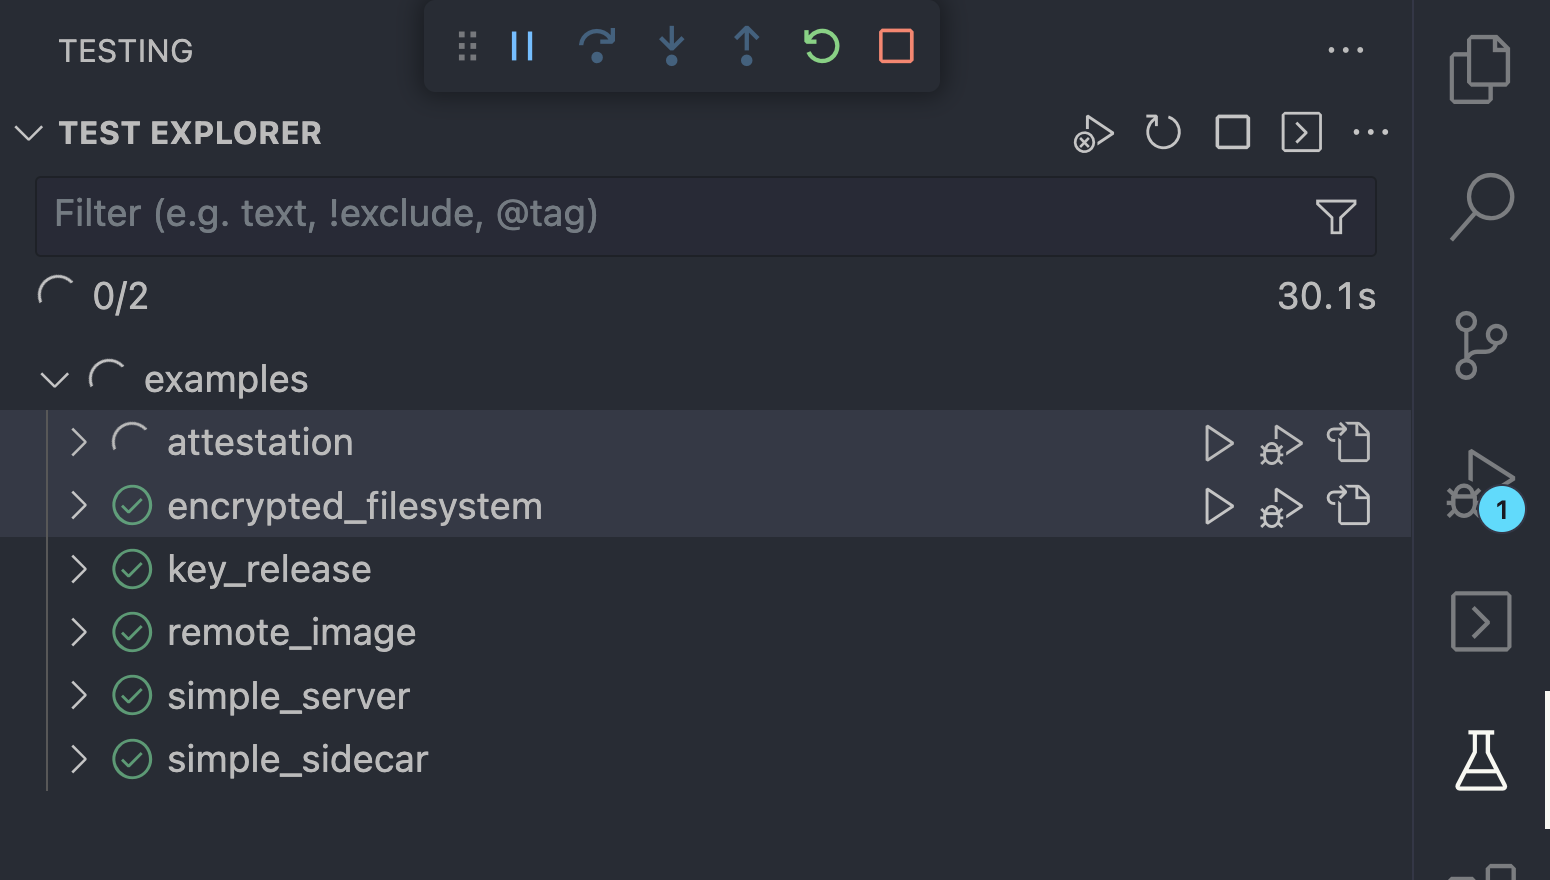
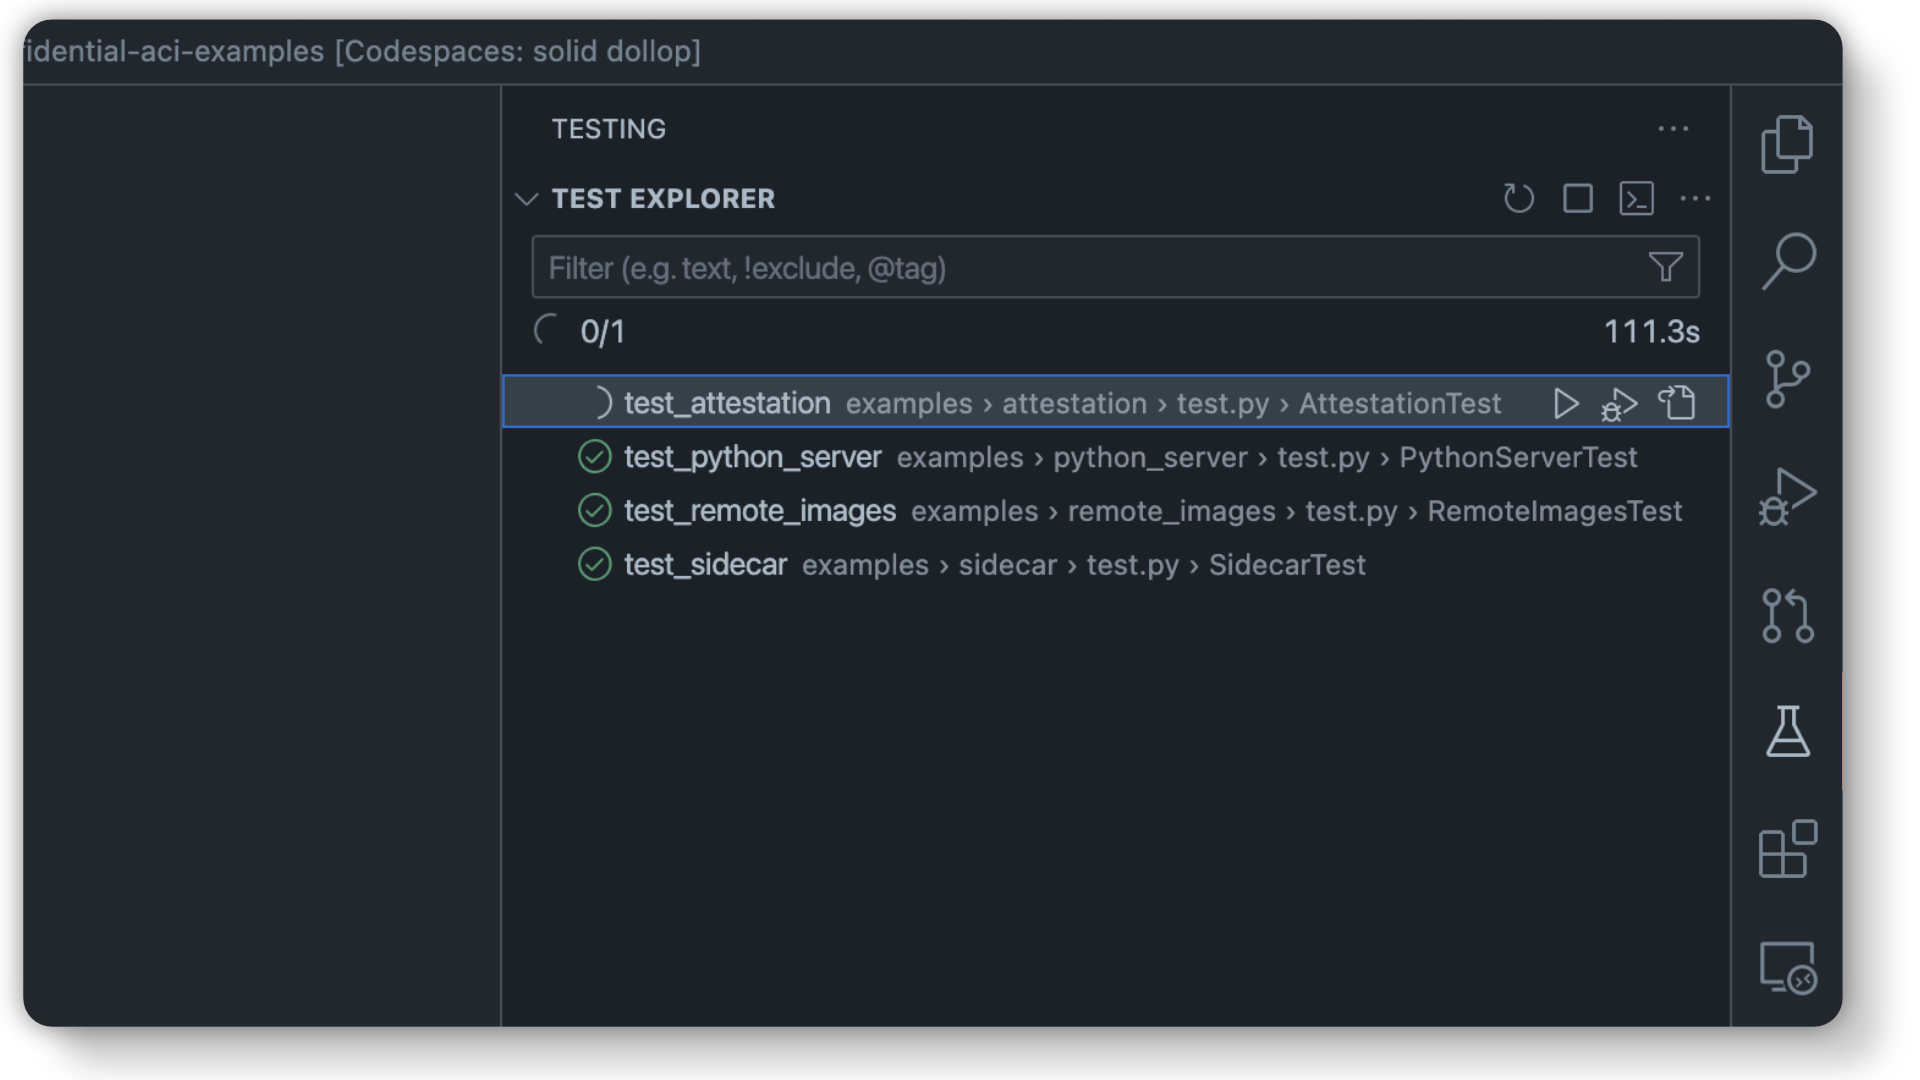
Update README

diff --git a/README.md b/README.md
@@ -1,30 +1,24 @@
 # Confidential ACI Examples
 
-Example code and end to end test cases for confidential ACI. Contains infrastructure for deploying Confidential Azure Container Instances based on AMD SEV-SNP.
+Example code and end to end test cases for confidential ACI.
 
-### [Simple Server](examples/simple_server/README.md)
+### [Python Server](examples/python_server/README.md)
 
-Hello world server running in a confidential container.
+Basic flask based server running in a confidential container.
 
-### [Simple Sidecar](examples/simple_sidecar/README.md)
+### [Sidecar](examples/sidecar/README.md)
 
 Deploys two containers in the same container group and demostrates communication between the two.
 
 ### [Remote Image](examples/remote_image/README.md)
 
-Simplest possible example to demonstrate how resources are managed by this repo.
+Deploys several container groups using popular docker images
 
 ### [Attestation](examples/attestation/README.md)
 
-Fetches and validates an SNP Attestation report, locally as well as using the [Attestation sidecar](https://github.com/microsoft/confidential-sidecar-containers).
+Fetches and validates an SNP Attestation report.
 
-### [Key Release](examples/key_release/README.md)
-
-Uses attestation to perform a secure key release from an Azure HSM.
-
-### [Encrypted Filesystem](examples/encrypted_filesystem/README.md)
-
-Uses the [Encrypted Filesystem sidecar](https://github.com/microsoft/confidential-sidecar-containers) to demonstrate using attestation to perform a secure key release from an Azure HSM which is then used to decrypt a simple filesystem.
+> Note: If you're looking for examples of how to use confidential sidecar container images, please look [here](https://github.com/microsoft/confidential-sidecar-containers) under the `tests/` directory
 
 ## How to Run Examples
 
@@ -32,18 +26,9 @@ There are three main ways to run examples:
 
 ### 1. Github Actions
 
-Every example has a corresponding github action which runs against all security policies in the examples manifest as well as one generated by the ACI Policy Generation tool.
+Every example has a corresponding github action.
 
 See all workflows [here](https://github.com/microsoft/confidential-aci-examples/actions).
-
-Certain workflows are run regularly as an indicator for the health of confidential ACI. You can find them [here](.github/workflows/README.md).
-
-It is also possible to manually run steps in the example testing process with the following workflows:
-
-- [Push Example Images](https://github.com/microsoft/confidential-aci-examples/actions/workflows/push_all_example_images.yml)
-- [Deploy ACI](https://github.com/microsoft/confidential-aci-examples/actions/workflows/manual_aci_deploy.yml)
-- [Test Example](https://github.com/microsoft/confidential-aci-examples/actions/workflows/manual_test_deployment.yml)
-- [Remove ACI](https://github.com/microsoft/confidential-aci-examples/actions/workflows/manual_aci_remove.yml)
 
 ### 2. Whole Tests Locally
 
@@ -53,7 +38,7 @@ The simplest way to run the tests locally is to use Github Codespaces.
 
 This will set up a full development environment with everything needed to run examples.
 
-> **CREDENTIALS:** If you do not have write permissions on this project or you checkout manually i.e. without using Codespaces, you will need to provide your own credentials by modifying the [Environment file](env) and re-running [setup.sh](setup.sh)
+> **CREDENTIALS:** In order to deploy Azure resources, you will need to run `az login` with an account with Contributor permissions on the resource group specified in `cacitesting.env`
 
 > **MANUAL SETUP:** To checkout and setup manually, please refer to the [Dev Container](.devcontainer/devcontainer.json) to follow the setup process.
 
@@ -65,17 +50,21 @@ Then you can open VS Code's testing view, where examples can be run with or with
 
 If a particular step of an example needs debugging, they can be run manually through [VS Codes Run and Debug View](https://code.visualstudio.com/docs/editor/debugging#_launch-configurations). Most examples follow these steps:
 
-1. Build and Push Images
-2. Generate ARM Template for ACI deployment
-3. Generate a security policy based on that ARM template (optional)
-4. Add a security policy to the ARM template
-5. Deploy ARM Template
+1. Build Images
+2. Push Images
+3. Pull Images (If already pushed)
+4. Generate a security policy
+5. Deploy ACIs
+6. Monitor running ACIs
+7. Remove ACIs
 
 <img src="docs/debug_view.png" alt="VS Codes Testing View" width=400px>
 
-Once the deployment is complete, you can run an example via unittest against the static deployment by setting the DEPLOYMENT_NAME environment variable in the [env file](env).
+Once the deployment is complete, you can run the corresponding test against it without doing a full deployment again.
 
 ### [EXPERIMENTAL] Running examples against Container Platform
+
+> Note: For now, use the branch `vm_backend` to do this
 
 You can currently run the following examples against Container Platform.
 
@@ -91,25 +80,35 @@ To do so, log into Azure with an account which has access to both the Azure DevO
 
 ## How to Add New Examples
 
-### 1. Create a new directory under examples with the name of your new test
+### 1. Create a new target with `c_aci_testing`
 
-- Must contain an \_\_init\_\_.py file.
+Either use the `target_create` Run & Debug option, or run in terminal:
 
-### 2. Add a manifest file
+```
+python -m c_aci_testing.target_create examples/my_example --name my_example
+```
 
-- Must be directly under your new directory and named `manifest.json`
-- At least one container image is needed, so create a Dockerfile and mention it in the manifest
-- Manifest files are automatically validated if running in codespaces, otherwise refer to the schema in [.devcontainer.json](.devcontainer/devcontainer.json)
+This creates a template for the new target, containing a bicep file and a docker compose file where you can specify the images to build and deploy.
 
-### 3. Add client side tests
+### 2. Add client side tests
 
-- Add python code which uses the unittest module to declare tests, inherit [TestCase](infra/test_case.py) to deploy containers during the setup of tests.
+Either use the `vscode_testing` Run & Debug option, or run in terminal:
 
-### 4. Add Github Actions workflows
+```
+python -m c_aci_testing.vscode_testing examples/my_example
+```
 
-- Contains a single job which uses the `test_example.yml` workflow
-- Add a workflow for pushing the latest image to the registry
-- If the example requires new repository secrets, they need to be added to [local_workflow.yml](.github/workflows/local_workflow.yml) and [_resolve_manifest.yml](.github/workflows/_resolve_manifest.yml). Adding new secrets requires Administrative access on this repository.
+This adds a placeholder python `unittest` based test which will deploy the target and give you a context in which to do your testing.
+
+### 3. Add Github Actions workflows
+
+Either use the `github_workflow_create` Run & Debug option, or run in terminal:
+
+```
+python -m c_aci_testing.github_workflow_create examples/my_example
+```
+
+This creates a placeholder github actions workflow.
 
 ---
 
